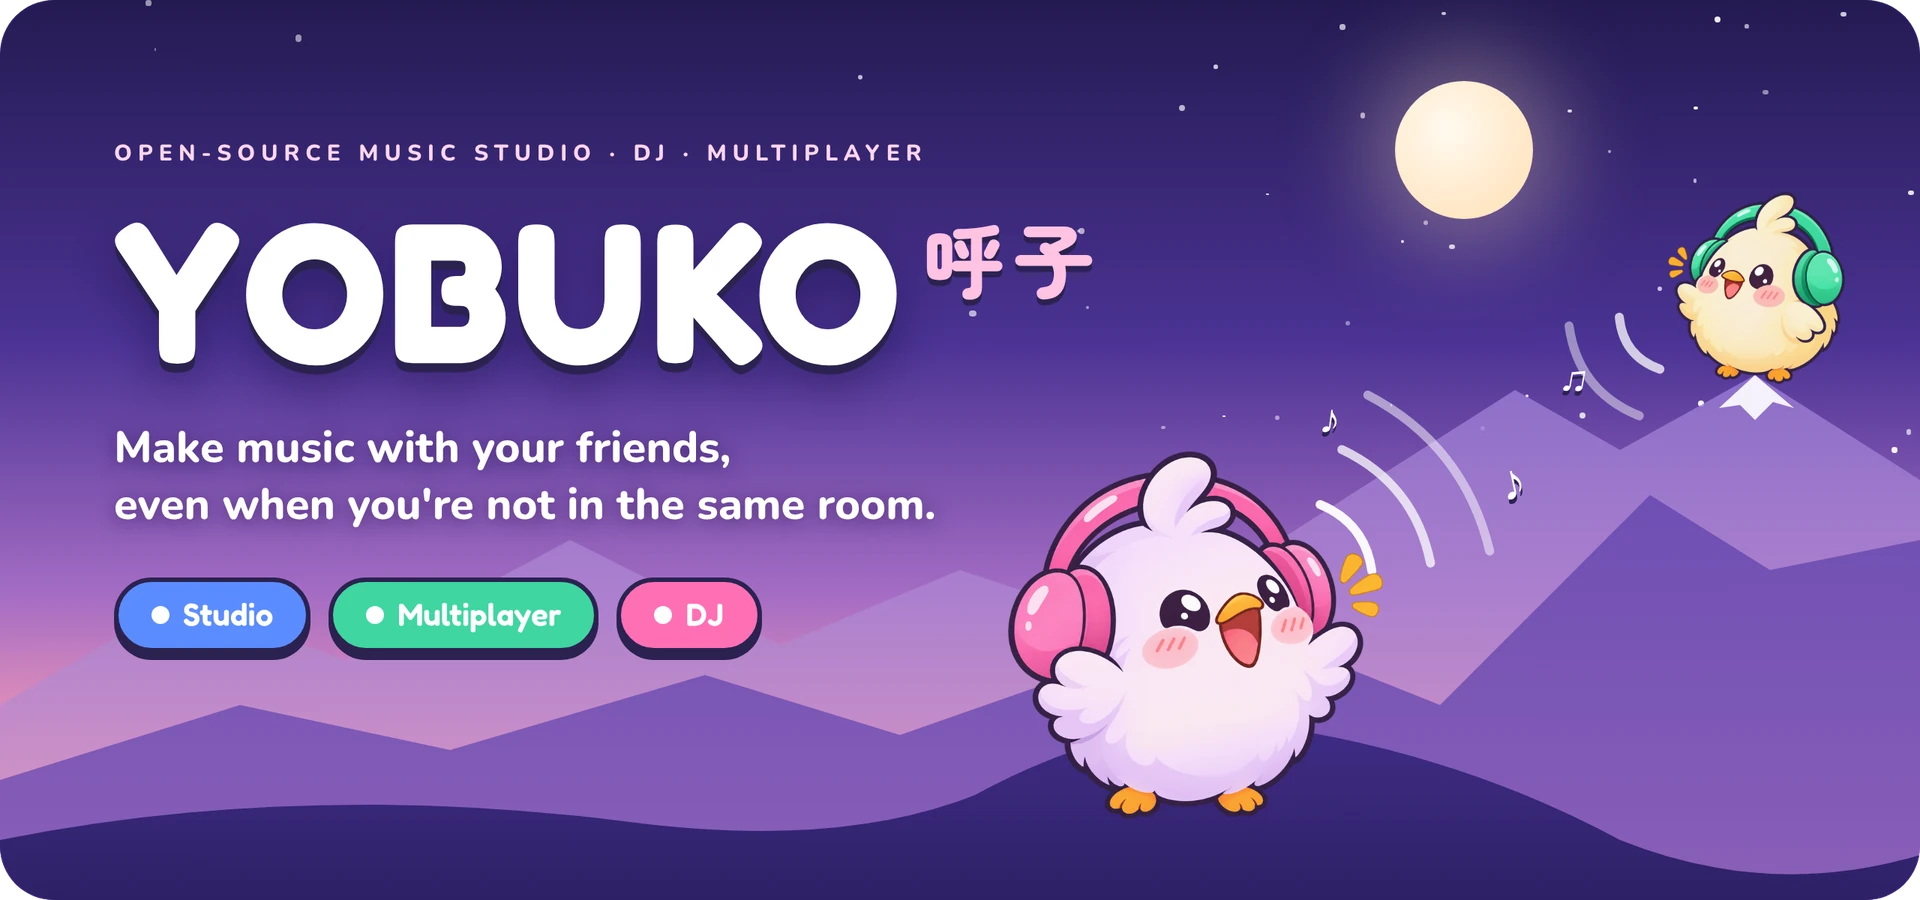
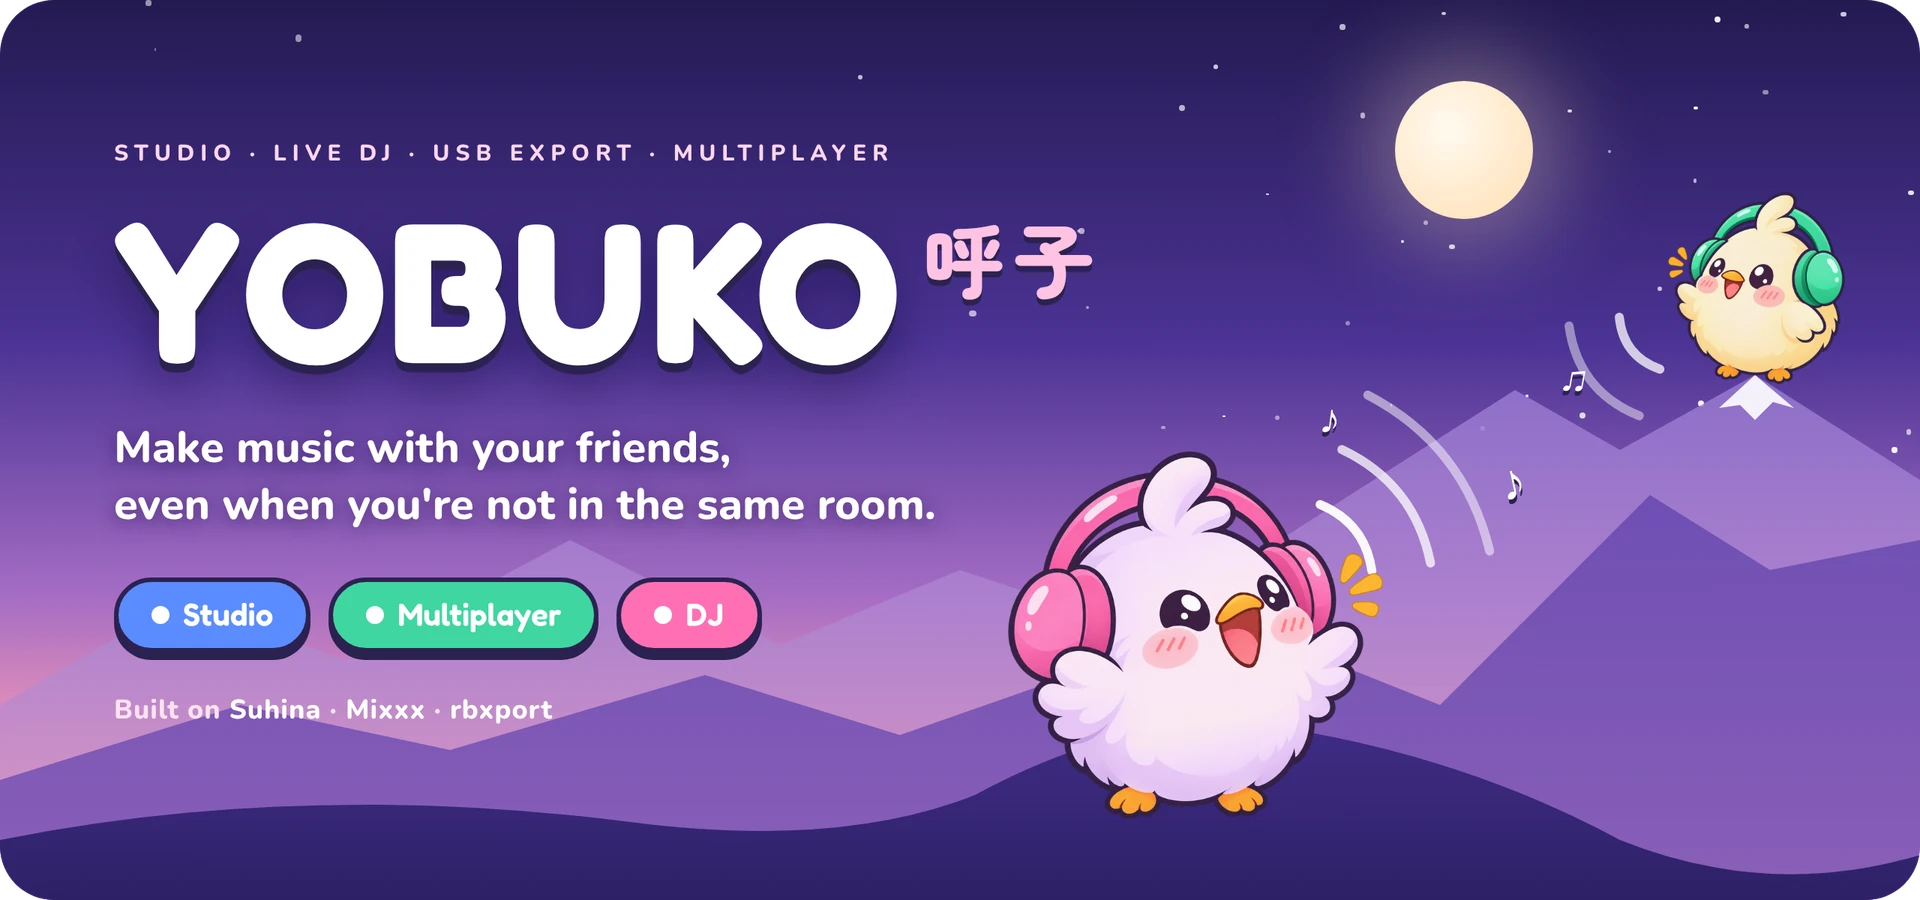
README: present YOBUKO as Suhina + Mixxx + rbxport [skip ci]
- Three credit cards with matching logo tiles (Suhina, Mixxx, rbxport)
  and a "one app, three open-source projects" illustration with the
  shared library between Mixxx and rbxport
- DJ section rewritten: Mixxx for live mixing (DDJ-FLX4 mapping set up
  automatically), rbxport for Rekordbox USB export, shared library
  table; marked as coming in the next version
- Real Mixxx screenshot (demo tracks generated for the page)
- Header gains "Built on Suhina · Mixxx · rbxport"
- Credits and update path mention Mixxx and the ElHanko FLX4 mapping

Claude-Session: https://claude.ai/code/session_01X5uisPxxHcLgZUVDKfZqRQ

Changed region(s): [[0.0625, 0.1556, 0.5, 0.1867], [0.0625, 0.7778, 0.2812, 0.8089]]

diff --git a/README.md b/README.md
@@ -1,5 +1,5 @@
 <p align="center">
-  <img src="assets/readme/hero.webp" alt="YOBUKO 呼子: make music with your friends, even when you're not in the same room. Studio, Multiplayer and DJ." width="100%">
+  <img src="assets/readme/hero.webp" alt="YOBUKO 呼子: make music with your friends, even when you're not in the same room. Built on Suhina, Mixxx and rbxport." width="100%">
 </p>
 
 <p align="center">
@@ -10,28 +10,39 @@
 
 <br>
 
-## 💜 Built on two wonderful open-source projects
+## 💜 Built on three wonderful open-source projects
 
-<p>YOBUKO would not exist without these two projects and their authors. <strong>Please go and give them a star first.</strong></p>
+<p>YOBUKO is a mix of three projects. It would not exist without them and their authors. <strong>Please go and give them a star first.</strong></p>
 
 <table>
   <tr>
-    <td width="50%" valign="top">
-      <p align="center"><a href="https://github.com/suhina-daw/suhina-daw"><img src="assets/brand/suhina-icon.png" alt="Suhina logo" width="84"></a></p>
+    <td width="33%" valign="top">
+      <p align="center"><a href="https://github.com/suhina-daw/suhina-daw"><img src="assets/readme/logo-suhina.png" alt="Suhina logo" width="88"></a></p>
       <h3 align="center"><a href="https://github.com/suhina-daw/suhina-daw">Suhina</a></h3>
-      <p align="center">An open-source, native, clip-launching <strong>music studio written in Rust</strong>, in the spirit of Ableton Live. Its engine, interface, instruments, effects and plug-in hosting are <strong>the whole Studio side of YOBUKO</strong>.</p>
-      <p align="center"><a href="https://github.com/suhina-daw/suhina-daw"><code>github.com/suhina-daw/suhina-daw</code></a></p>
+      <p align="center"><strong>🎛 The studio</strong></p>
+      <p align="center">An open-source, clip-launching <strong>music studio written in Rust</strong>, in the spirit of Ableton Live. Its engine, instruments, effects and plug-in hosting are <strong>the whole Studio side of YOBUKO</strong>.</p>
+      <p align="center"><a href="https://github.com/suhina-daw/suhina-daw"><code>suhina-daw/suhina-daw</code></a></p>
     </td>
-    <td width="50%" valign="top">
-      <p align="center"><a href="https://github.com/chrisle/rbxport"><img src="assets/readme/rbxport-icon.png" alt="rbxport logo" width="84"></a></p>
+    <td width="33%" valign="top">
+      <p align="center"><a href="https://github.com/mixxxdj/mixxx"><img src="assets/readme/logo-mixxx.png" alt="Mixxx logo" width="88"></a></p>
+      <h3 align="center"><a href="https://github.com/mixxxdj/mixxx">Mixxx</a></h3>
+      <p align="center"><strong>🎧 The live DJ</strong></p>
+      <p align="center">The free DJ software <strong>by the Mixxx team</strong>: decks, effects, hot cues and mappings for hundreds of controllers. <strong>YOBUKO's DJ mode is Mixxx itself</strong>, ready for the Pioneer DDJ-FLX4.</p>
+      <p align="center"><a href="https://github.com/mixxxdj/mixxx"><code>mixxxdj/mixxx</code></a></p>
+    </td>
+    <td width="33%" valign="top">
+      <p align="center"><a href="https://github.com/chrisle/rbxport"><img src="assets/readme/logo-rbxport.png" alt="rbxport logo" width="88"></a></p>
       <h3 align="center"><a href="https://github.com/chrisle/rbxport">rbxport</a></h3>
-      <p align="center">By <strong>chrisle and contributors</strong>: a fast DJ library app with track analysis, cue points and a real <strong>Rekordbox USB exporter</strong> for Pioneer CDJ/XDJ players. <strong>YOBUKO's DJ mode is rbxport itself</strong>, shipped inside YOBUKO.</p>
-      <p align="center"><a href="https://github.com/chrisle/rbxport"><code>github.com/chrisle/rbxport</code></a></p>
+      <p align="center"><strong>💾 The USB export</strong></p>
+      <p align="center">A fast DJ library app <strong>by chrisle and contributors</strong>, with a real <strong>Rekordbox USB exporter</strong>. YOBUKO uses it to put your music on a stick for Pioneer CDJ / XDJ players.</p>
+      <p align="center"><a href="https://github.com/chrisle/rbxport"><code>chrisle/rbxport</code></a></p>
     </td>
   </tr>
 </table>
 
-<sub>Their authors keep their copyright and credits. YOBUKO is an independent fork, not endorsed by either project. More in <a href="#-credits-and-licence">Credits and licence</a>.</sub>
+<p align="center"><img src="assets/readme/trio.webp" alt="One app, three open-source projects: Suhina for the studio, Mixxx for live DJing, rbxport for USB export, with one shared music library between Mixxx and rbxport" width="100%"></p>
+
+<sub>Their authors keep their copyright and credits. YOBUKO is an independent fork, not endorsed by any of these projects. More in <a href="#-credits-and-licence">Credits and licence</a>.</sub>
 
 <br>
 
@@ -41,7 +52,7 @@
 
 One of you starts a session and reads out a short code. The others type it, and you are all in the same project, whether you live on the next street or on the other side of the country. Each person plays and listens on their own computer, and every change lands for everyone.
 
-When the track is ready, switch to **DJ** mode to prepare it for your set and put it on a USB stick for the club's players. **Make it together, prepare the set, play it live: one app.**
+When the track is ready, switch to **DJ** mode: play it live in **Mixxx** with your controller, or put it on a USB stick for the club's players with **rbxport**. **Make it together, play it live, take it to the club: one app.**
 
 <br>
 
@@ -71,11 +82,28 @@ The full Suhina studio: session and arrangement views, MIDI and audio tracks, in
 
 ## 💿 DJ
 
-<p align="center"><img src="assets/readme/dj.webp" alt="DJ mode: the rbxport app with a waveform, cue points and a playlist" width="100%"></p>
+> [!NOTE]
+> The Mixxx DJ mode and the shared library are **coming in the next version**. Until then, the DJ pill opens rbxport.
 
-- Click the mode pill at the top right and pick **DJ**: the real **rbxport** opens.
-- **Send this project to rbxport** puts your finished track straight into your DJ collection.
-- Analyse tempo and key, set cue points, build playlists and **export to a Rekordbox USB stick** for CDJ / XDJ players.
+<p align="center"><img src="assets/readme/mixxx.webp" alt="DJ mode: Mixxx with two decks, hot cues and the music library" width="100%"></p>
+
+**Play live with Mixxx.** Click the mode pill at the top right, pick **DJ**, then **Open Mixxx**.
+
+- **Plug in a Pioneer DDJ-FLX4 and play.** YOBUKO sets up its mapping for you. Other controllers work too: Mixxx has 200+ built-in mappings and MIDI Learn.
+- Mixxx comes **inside YOBUKO** on macOS (Apple Silicon) and Windows. On Linux, YOBUKO uses the Mixxx installed on your computer.
+- Already use Mixxx? Your own copy keeps its settings: the one inside YOBUKO has its own profile.
+
+<p align="center"><img src="assets/readme/rbxport.webp" alt="USB export: the rbxport app with a waveform, cue points and a playlist" width="100%"></p>
+
+**Take it to the club with rbxport.** Click **Prepare a USB stick (rbxport)** to write your music, playlists and cues to a Rekordbox stick for Pioneer CDJ / XDJ players.
+
+### 📚 One music library for both
+
+| You do this | YOBUKO does this |
+|---|---|
+| Add tracks, playlists or crates in **Mixxx** | They appear in rbxport, in a **Mixxx** folder, ready for the USB stick |
+| Make playlists in **rbxport** | They appear in Mixxx as **rbxport · Folder / Name**, with hot cues and loops |
+| Finish a track in the **Studio** | **Send this project to DJ…** puts it in your DJ library |
 
 <br>
 
@@ -142,11 +170,11 @@ Technical details: [online sessions](docs/spec/online-sessions.md) · [shared pl
 ```text
 Suhina upstream ──┐
                   ├─ isolated integration ─ checks ─ combined build ─ in-app update
-rbxport upstream ─┘            ↑
-                    YOBUKO multiplayer + DJ modules
+rbxport upstream ─┘            ↑                          ↑
+                    YOBUKO multiplayer + DJ modules     pinned Mixxx release
 ```
 
-Updates from Suhina and rbxport are merged into YOBUKO and tested together before a release. Installed apps only download that tested combined package; they never replace themselves with an official standalone app. Internal names (`suhina-*` crates and binaries) are kept so upstream updates keep merging cleanly. [Distribution design](docs/fork-distribution.md)
+Updates from Suhina and rbxport are merged into YOBUKO and tested together before a release, and Mixxx ships as a pinned official release. Installed apps only download that tested combined package; they never replace themselves with an official standalone app. Internal names (`suhina-*` crates and binaries) are kept so upstream updates keep merging cleanly. [Distribution design](docs/fork-distribution.md)
 
 </details>
 
@@ -173,7 +201,7 @@ Platform prerequisites are in [Suhina's build instructions](UPSTREAM_README.md#b
 
 The most useful help right now: **real sessions between two homes**, DJ preparation feedback and clear bug reports (your OS, the version, the exact steps, what you expected and what happened).
 
-Please follow [CONTRIBUTING.md](CONTRIBUTING.md) and the [security notes](docs/security/session-sharing.md), and keep session codes private. Discuss YOBUKO here, on this fork: Suhina and rbxport have their own direction and rules.
+Please follow [CONTRIBUTING.md](CONTRIBUTING.md) and the [security notes](docs/security/session-sharing.md), and keep session codes private. Discuss YOBUKO here, on this fork: Suhina, Mixxx and rbxport have their own direction and rules.
 
 <br>
 
@@ -182,12 +210,13 @@ Please follow [CONTRIBUTING.md](CONTRIBUTING.md) and the [security notes](docs/s
 | Project | What comes from it | What YOBUKO adds |
 |---|---|---|
 | **[Suhina](https://github.com/suhina-daw/suhina-daw)** | The music studio: native interface, audio engine, project model, instruments, effects, plug-in hosting, CLI and automation. | Online multiplayer, the DJ bridge and the combined distribution. |
-| **[rbxport](https://github.com/chrisle/rbxport)** by **chrisle and contributors** | The whole rbxport desktop app (library, analysis, decks, USB export, PRO DJ LINK) and its analysis and Rekordbox USB export libraries. | rbxport ships inside YOBUKO as its DJ mode; "Send this project to rbxport" adds a render to its collection. |
+| **[Mixxx](https://github.com/mixxxdj/mixxx)** by **the Mixxx team** | The Mixxx DJ application (GPL-2.0-or-later), shipped as YOBUKO's live DJ mode, and the community DDJ-FLX4 mapping by [ElHanko](https://github.com/ElHanko/mixxx-ddj-flx4-mapping) (MIT). | YOBUKO opens Mixxx from its DJ pill, installs the FLX4 mapping and keeps its library in sync with rbxport. |
+| **[rbxport](https://github.com/chrisle/rbxport)** by **chrisle and contributors** | The rbxport desktop app (library, analysis, USB export, PRO DJ LINK) and its analysis and Rekordbox USB export libraries. | rbxport ships inside YOBUKO for USB export, and shares its library with Mixxx. |
 
-Read [Suhina's original README](UPSTREAM_README.md), [ATTRIBUTION.md](ATTRIBUTION.md), [NOTICE](NOTICE), the rbxport provenance files ([analysis](third_party/rbxport-analysis/VENDORED.md), [exporter](third_party/rbxport-export/VENDORED.md), [app](third_party/rbxport-app/VENDORED.md)) and the exact [source pins](fork-sources.json). Original authors keep their copyright. This is an independent experimental fork, not an official release or endorsement from either project, and it contains no proprietary music-software code or content.
+Read [Suhina's original README](UPSTREAM_README.md), [ATTRIBUTION.md](ATTRIBUTION.md), [NOTICE](NOTICE), the rbxport provenance files ([analysis](third_party/rbxport-analysis/VENDORED.md), [exporter](third_party/rbxport-export/VENDORED.md), [app](third_party/rbxport-app/VENDORED.md)) and the exact [source pins](fork-sources.json). Original authors keep their copyright. This is an independent experimental fork, not an official release or endorsement from any of these projects, and it contains no proprietary music-software code or content.
 
 **GPL-3.0-or-later.** Packages include the required notices and source. See [LICENSE](LICENSE) and the [distribution contract](docs/fork-distribution.md).
 
 <br>
 
-<p align="center"><sub>The DJ screenshot shows rbxport's built-in demo library. The Studio screenshots show Suhina's themes.</sub></p>
+<p align="center"><sub>The Mixxx screenshot uses demo tracks made for this page; the rbxport screenshot shows its built-in demo library; the Studio screenshots show Suhina's themes.</sub></p>
